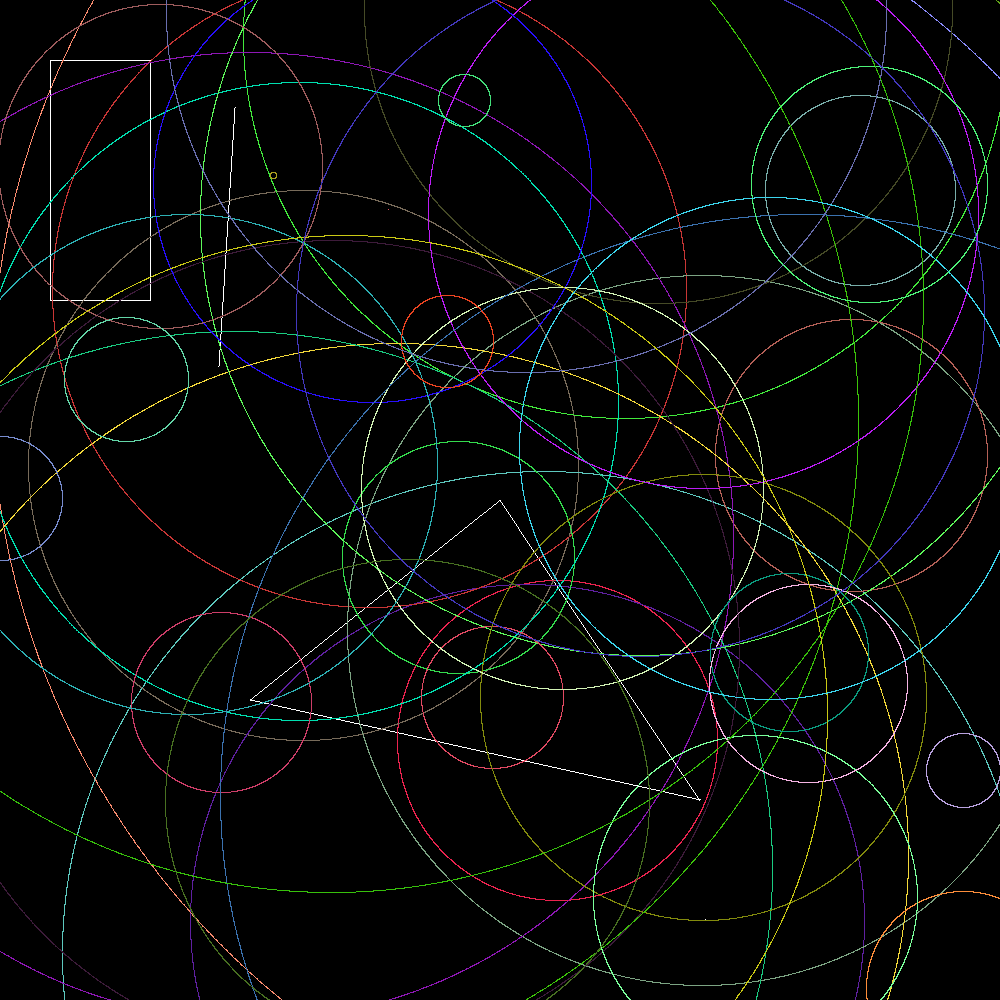
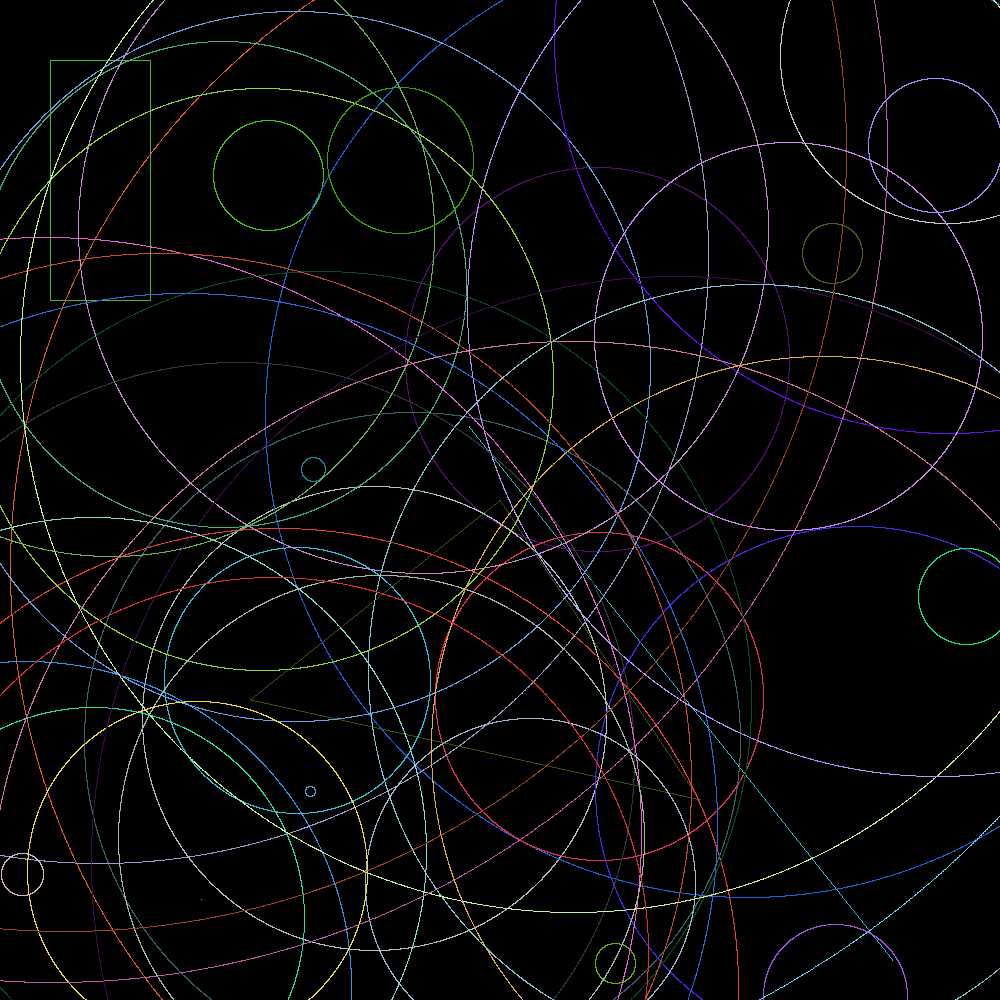
adding colors to the rectangle and the triangle

diff --git a/src/geometrical_shapes.rs b/src/geometrical_shapes.rs
@@ -2,6 +2,25 @@ use rand::prelude::*;
 use raster::{Color, Image};
 use std::f64::consts::PI;
 
+pub fn draw_line(image: &mut Image, p1: Point, p2: Point, color: Color) {
+    let dx: f64 = (p2.x - p1.x) as f64;
+    let dy: f64 = (p2.y - p1.y) as f64;
+
+    let steps: usize = dx.abs().max(dy.abs()) as usize;
+
+    let x_inc: f64 = dx / steps as f64;
+    let y_inc: f64 = dy / steps as f64;
+
+    let mut x: f64 = p1.x as f64;
+    let mut y: f64 = p1.y as f64;
+
+    for _ in 0..=steps {
+        image.display(x as i32, y as i32, color.clone());
+        x += x_inc;
+        y += y_inc;
+    }
+}
+
 pub trait Drawable {
     fn draw(&self, image: &mut Image);
     fn color() -> Color {
@@ -26,10 +45,11 @@ pub struct Point {
     pub y: i32,
 }
 
-#[derive(Debug, Eq, PartialEq)]
+#[derive(Debug)]
 pub struct Line {
     pub p1: Point,
     pub p2: Point,
+    pub color: Color,
 }
 
 #[derive(Debug, Eq, PartialEq)]
@@ -66,7 +86,11 @@ impl Point {
 
 impl Line {
     pub fn new(p1: Point, p2: Point) -> Self {
-        Self { p1, p2 }
+        Self {
+            p1,
+            p2,
+            color: Color::white(),
+        }
     }
 
     pub fn random(width: i32, height: i32) -> Self {
@@ -119,48 +143,37 @@ impl Circle {
 
 impl Drawable for Point {
     fn draw(&self, image: &mut Image) {
-        image.display(self.x, self.y, Color::white())
+        image.display(self.x, self.y, Self::color());
     }
 }
 
 impl Drawable for Line {
     fn draw(&self, image: &mut Image) {
-    let dx: f64 = (self.p2.x - self.p1.x) as f64;
-    let dy: f64 = (self.p2.y - self.p1.y) as f64;
-
-    let steps: usize = dx.abs().max(dy.abs()) as usize;
-
-    let x_inc: f64 = dx / steps as f64;
-    let y_inc: f64 = dy / steps as f64;
-
-    let mut x: f64 = self.p1.x as f64;
-    let mut y: f64 = self.p1.y as f64;
-
-    for _ in 0..=steps {
-        image.display(x as i32, y as i32, Color::white());
-        x += x_inc;
-        y += y_inc;
+        let color = Self::color();
+        draw_line(image, self.p1.clone(), self.p2.clone(), color);
     }
-}
 }
 
 impl Drawable for Rectangle {
     fn draw(&self, image: &mut Image) {
-        let p3 = Point::new(self.p1.x, self.p2.y);
-        let p4 = Point::new(self.p2.x, self.p1.y);
+        let p3: Point = Point::new(self.p1.x, self.p2.y);
+        let p4: Point = Point::new(self.p2.x, self.p1.y);
+        let color = Self::color();
 
-        Line::new(self.p1.clone(), p3.clone()).draw(image);
-        Line::new(p3.clone(), self.p2.clone()).draw(image);
-        Line::new(self.p2.clone(), p4.clone()).draw(image);
-        Line::new(p4.clone(), self.p1.clone()).draw(image);
+        draw_line(image, self.p1.clone(), p3.clone(), color.clone());
+        draw_line(image, p3.clone(), self.p2.clone(), color.clone());
+        draw_line(image, self.p2.clone(), p4.clone(), color.clone());
+        draw_line(image, p4.clone(), self.p1.clone(), color.clone());
     }
 }
 
 impl Drawable for Triangle {
     fn draw(&self, image: &mut Image) {
-        Line::new(self.p1.clone(), self.p2.clone()).draw(image);
-        Line::new(self.p1.clone(), self.p3.clone()).draw(image);
-        Line::new(self.p2.clone(), self.p3.clone()).draw(image);
+        let color = Self::color();
+
+        draw_line(image, self.p1.clone(), self.p2.clone(), color.clone());
+        draw_line(image, self.p1.clone(), self.p3.clone(), color.clone());
+        draw_line(image, self.p2.clone(), self.p3.clone(), color.clone());
     }
 }
 
@@ -178,3 +191,5 @@ impl Drawable for Circle {
         }
     }
 }
+
+
